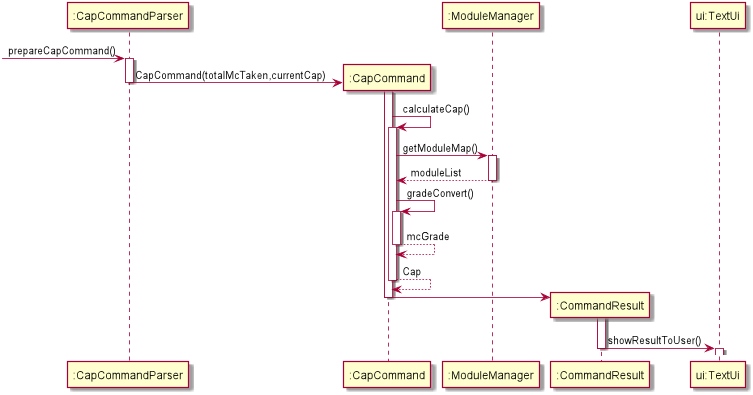
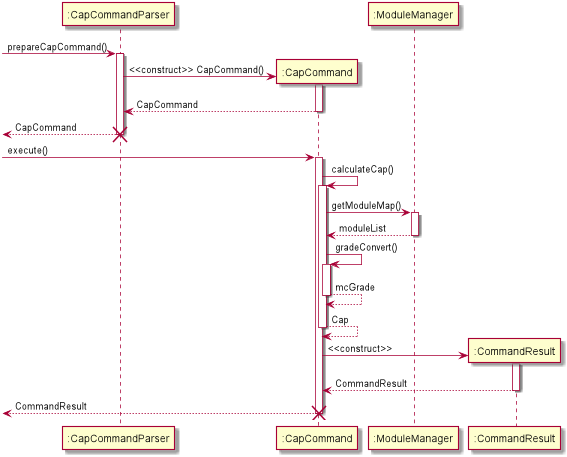
Updated seq diagrams and DG

diff --git a/docs/DeveloperGuide.md b/docs/DeveloperGuide.md
@@ -160,11 +160,41 @@ e.g. `add -t task -by 2nd Jan`
 * Module already exists in module list\
 e.g. Module list contains CS1010, but user tries to enter `add -m CS1010`
 
-### [proposed] Grade Feature 
-This proposed feature is facilitated by ModuleManager and Module classes. 
+### Cap Feature 
+This feature is faciliatated by ModuleManager and Module classes.
+It extends `Command` and runs through the `ModuleManager`, checking every `grade` and `moduleCredit`.
+* `CapCommand#gradeConvert` - Takes the grade of a module and assigns it a value according to the NUS grading schematic
+* `CapCommand#calculateCap` - Uses a formula to calculate the user's current cap, with the user's total Module Credit taken and current cap.
+
+![Sequence diagram for Cap Feature in Command class](/docs/diagrams/CapCommandSequenceDiagram.png?raw=true)
+
+As seen from the sequence diagram above, this is the flow of a Cap command.
+The CapCommandParser parses the user's input and assigns the relevant attributes in the Cap Command constructor, such as `totalMcTaken` and `currentCap`.
+When Cap Command is being executed , a CommandResult object is created that calculates the user's current cap after taking into account the current `ModuleManager` modules and the past semester's total mc taken and current cap.
+
+Given below is an example usage scenario and how the cap feature behaves at each step. 
+
+Step 1. The user launches the application for the first time. 
+
+Step 2. The user inputs `add -m CS2101` into Ravi, as the user adds a module he's taking into the `ModuleManager`. The user keys in as many modules into Ravi as they are taking. 
+
+Step 3. Once the user attains a grade for the modules keyed in, he inputs `grade CS2101 4 A-` and grades all the other modules he has taken.
+
+Step 4. Once every module in the `ModuleManager` has been graded, he inputs `cap 46 4.24` to calculate his accumulative cap after attaining his new grades.
+
+Step 5. The `CommandResult` returns the success message to show the user his current cap after attaining his grades.
+
+### Grade Feature 
+This feature is facilitated by ModuleManager and Module classes. 
 It extends `Command` and is stored internally inside `Module` as an `grade` and `moduleCredit`.
 * `GradeCommand#testgrade(stringGrade)` - checks if the input grade is valid according to NUS grading schematic 
 * `GradeCommand#grade(moduleModule)` - assigns the specific module present in the module list, the grade and moduleCredit attributes.
+
+![Sequence diagram for Grade Feature in Command class](/docs/diagrams/GradeCommandSequenceDiagram.png?raw=true)
+
+As seen from the sequence diagram above, this is the flow of a Grade command.
+The GradeCommandParser parses the user's input, and assigns the relevant attributes in the Grade Command constructor, such as `moduleCredit` and `grade`
+When Grade Command is being executed,a CommandResult object is created that shows the user the result of the command through TextUi, using `showOutputToUser()`
 
 Given below is an example usage scenario and how the grade feature behaves at each step.
 
@@ -172,7 +202,7 @@ Step 1. The user launches the application for the first time. The user inputs `a
 
 Step 2. The user inputs `grade CS2101 4 A+`. Where the user input is parsed and allocated to by the parser to GradeCommand. `GradeCommand#execute()` is called and moduleManager checks if such a module exists in the user’s module list, then checks if the input grade is valid according to the NUS grading schematic and finally assigns the specific module , the grade and module credits.
 
-Step 3. The `CommandResult` returns the success message to show the user that their module has successfully been graded. Otherwise, an exception message will be shown with regards to the exception caught.
+Step 3. The `CommandResult` returns the success message to show the user that their module has successfully been graded. Otherwise, an exception message will be shown regarding the exception caught.
 
 ## User Stories
 
@@ -188,6 +218,7 @@ Step 3. The `CommandResult` returns the success message to show the user that th
 |v2.0|user|view my timetable quickly|be aware of my classes and prepare for them quickly|
 |v2.0|user|view a summary of my tasks|be aware of my tasks and work on them as needed|
 |v2.0|user|grade my modules|keep track of my grades for respective modules|
+|v2.0|user|calculate my accumulative cap|keep track of my progress in university|
 
 ## Non-Functional Requirements
 
@@ -252,14 +283,15 @@ Given below are instructions to test the app manually.
 
 ### Viewing the timetable
 
+### Calculating the Accumulated Cap after the current semester
+1. Calculate the Cap:
+    1. Test case: `cap 46 4.24`, where the modules in Module List has already been graded individually.
+    Excepted: Each module in `ModuleManager` will be checked for its `moduleCredit` and `grade`, it is accumulated in variables.
+    Using the accumulative cap formula and the user's most updated cap will be calculated and shown to user.
+
 ### Grading an existing module in module list
-1. Add a module:
-    1. Test case: `add -m CS2101`
-    Expected:  Module `CS2101` will be checked against the NUS module list. 
-    Since `CS2113T` is a valid module, it will be added to the module list.
-    Details of the added module is shown in the status message.
-2. Grade the module:
-    1. Test case: `grade CS2101 4 A+`
+1. Grade the module:
+    1. Test case: `grade CS2101 4 A+` , where the module `CS2101` has been previously added to the module list
     Expected: Module `CS2101` will be checked if its inside ModuleManager.
     Since `CS2101` exists then the attributes of `4` and `A+` which are module credit and grade,
     will be added to the Module.  
